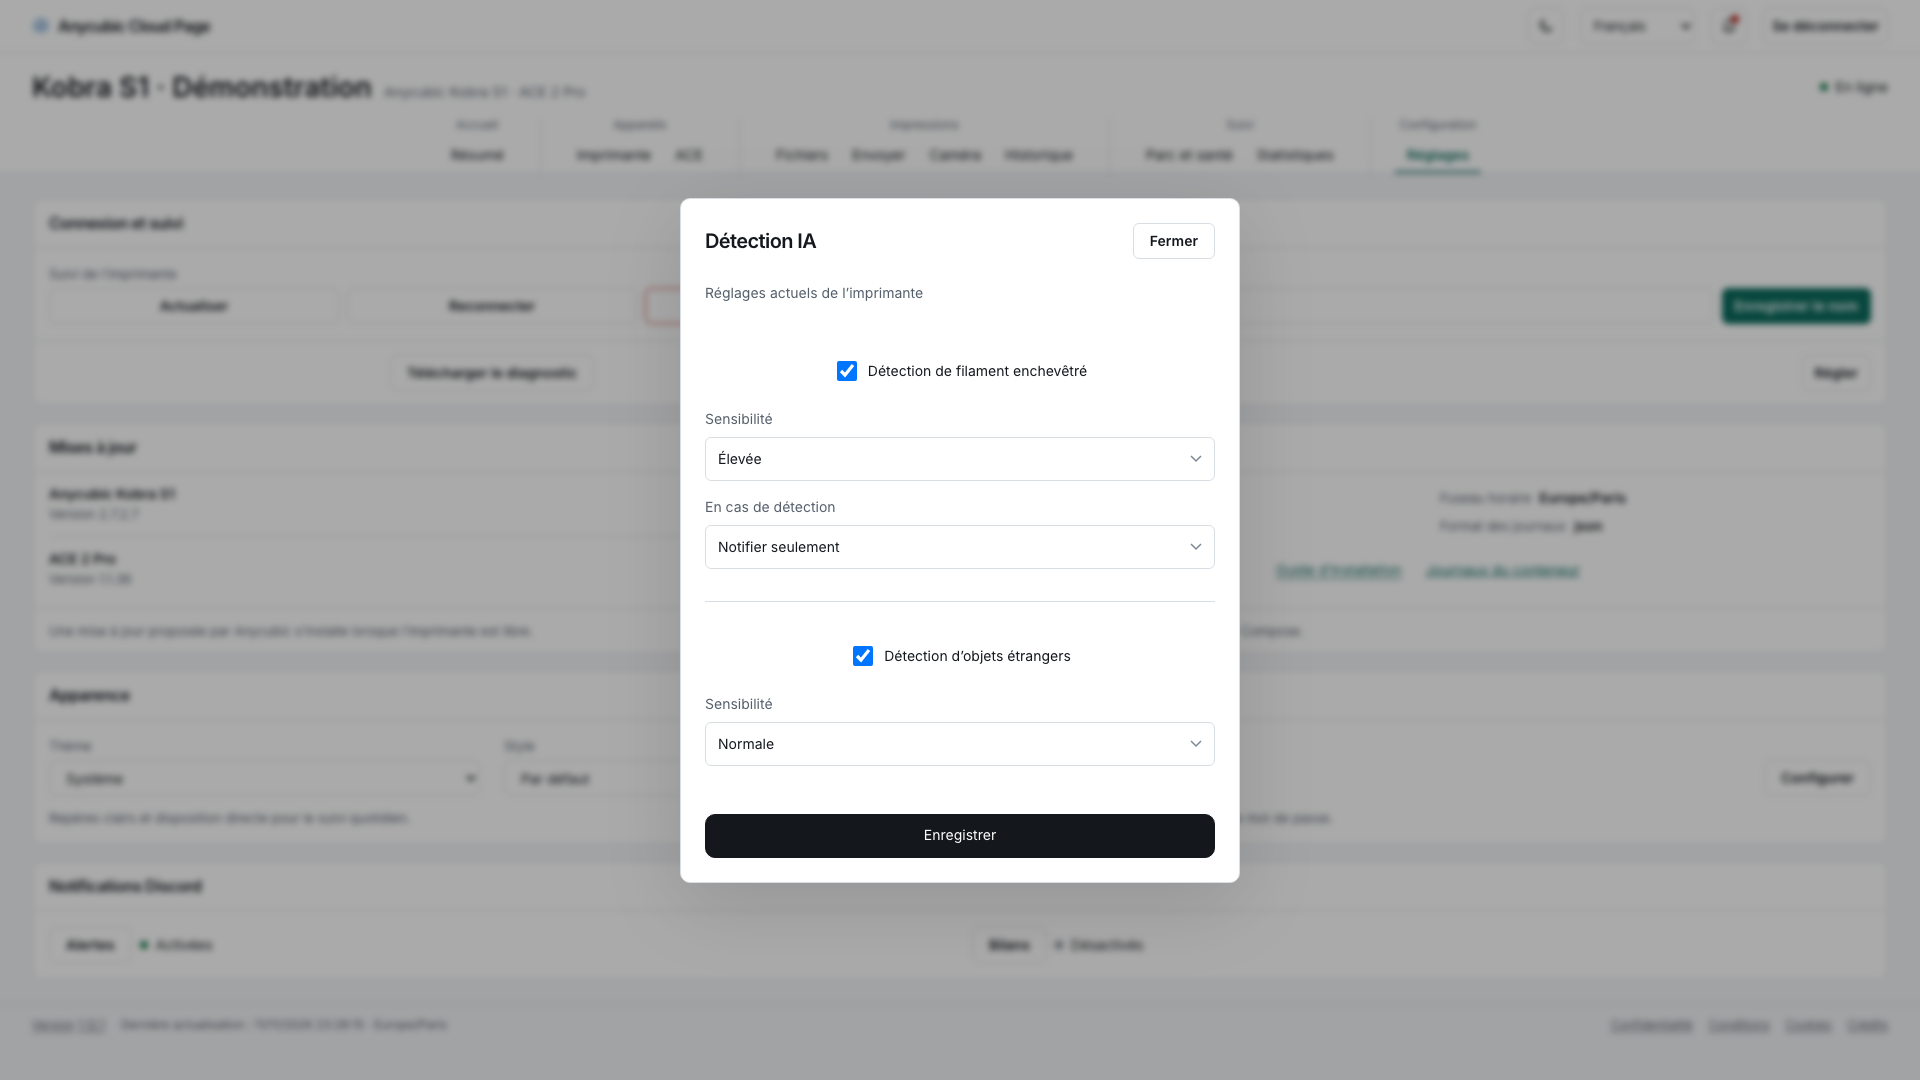
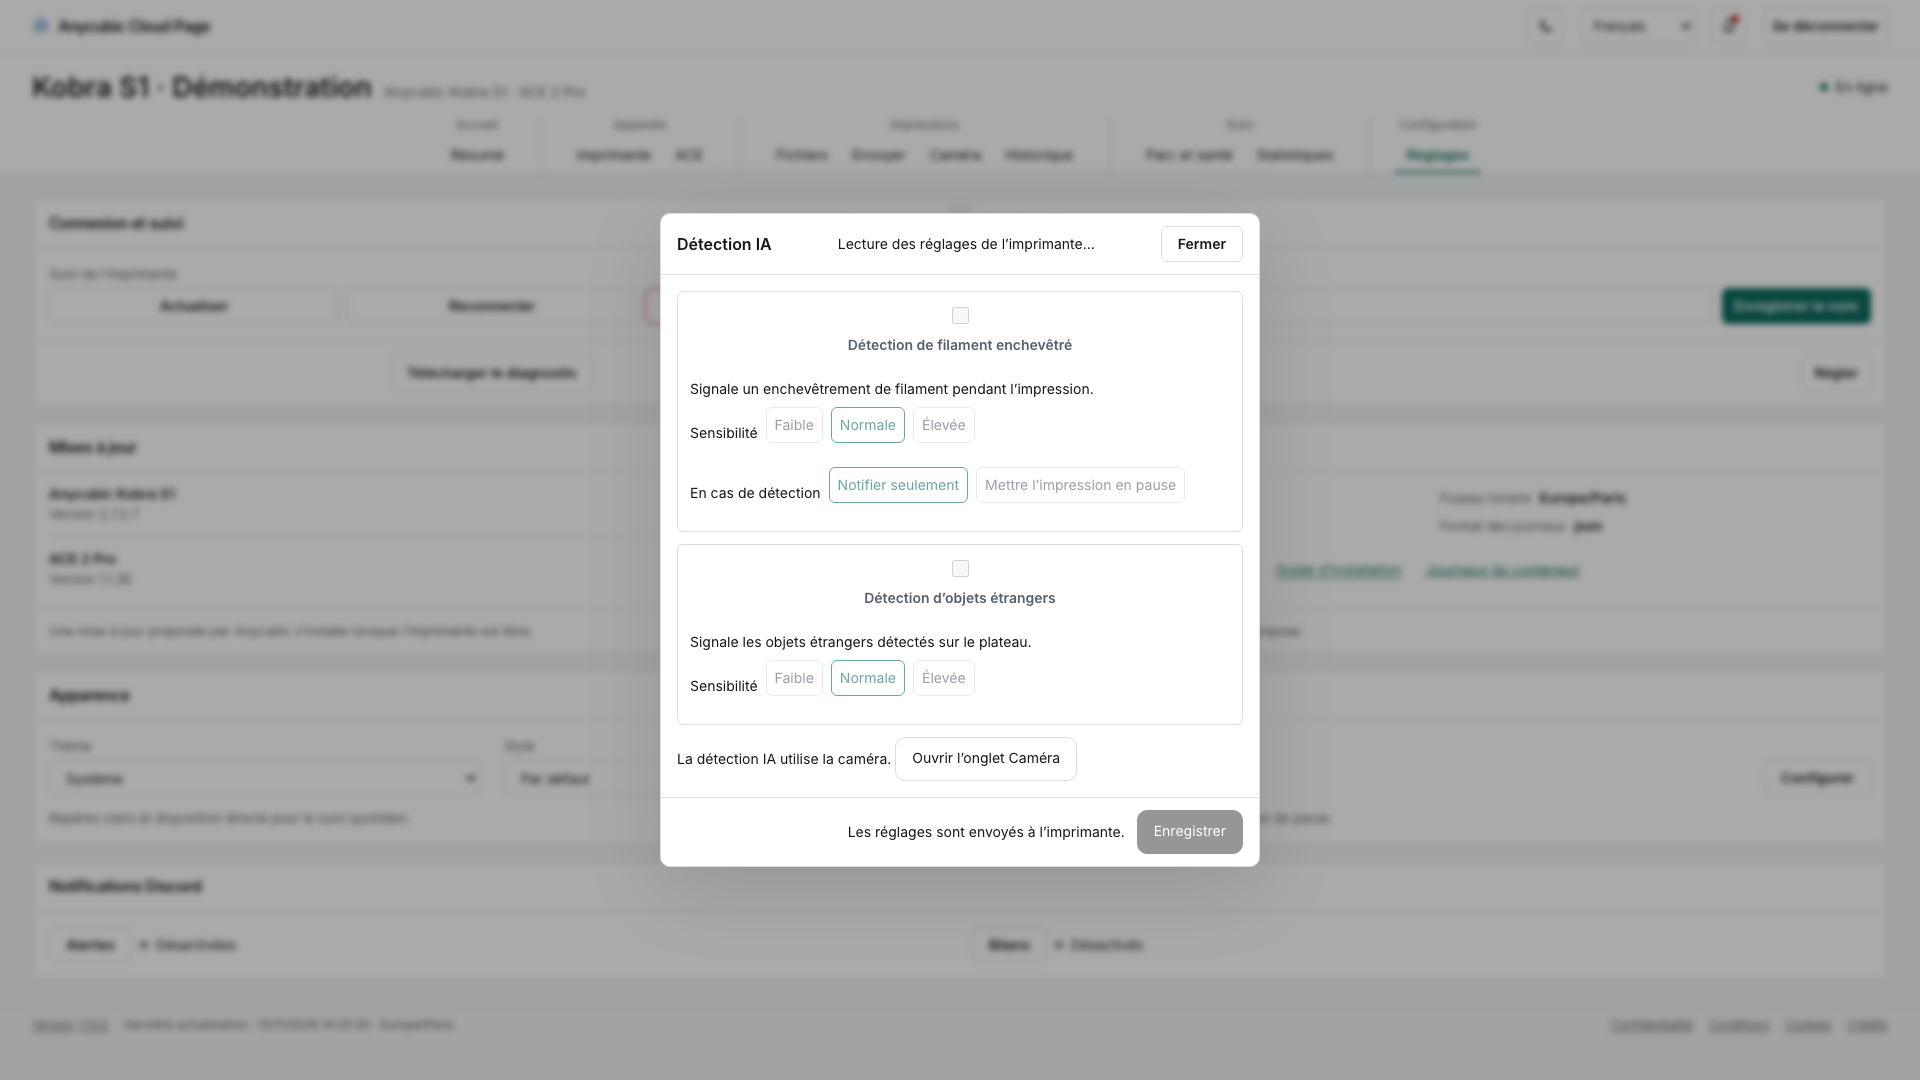
Version 1.13.0 : fenêtres de l’atelier et fiches filament

Changed region(s): [[0.3438, 0.1833, 0.6562, 0.825], [0.0938, 0.8556, 0.125, 0.8861]]

diff --git a/screenshots/README.md b/screenshots/README.md
@@ -32,10 +32,18 @@ Captures de la démonstration authentifiée, produites avec `scripts/capture_dem
 | [25-commandes-au-repos.png](25-commandes-au-repos.png) | Commandes courantes, schéma de la S1 et mesures de chaque organe, en mode sombre. |
 | [26-sechage-ace.png](26-sechage-ace.png) | Interrupteur, état et réglages du séchage ACE, en mode sombre. |
 | [27-details-tache.png](27-details-tache.png) | Fenêtre commune à la tâche courante et à l’historique. |
+| [28-configurer-bobine.png](28-configurer-bobine.png) | Emplacements, aperçu et réglages d’une bobine ACE. |
+| [29-journal-commandes.png](29-journal-commandes.png) | Filtres du journal des commandes et export. |
+| [30-periode-historique.png](30-periode-historique.png) | Raccourcis de période et dates de l’historique. |
+| [31-renommer-cloud.png](31-renommer-cloud.png) | Renommage Cloud avec extension conservée. |
+| [32-telecharger-cloud.png](32-telecharger-cloud.png) | Fenêtre de téléchargement Cloud. |
+| [33-confirmation.png](33-confirmation.png) | Confirmation de suppression d’un fichier Cloud. |
 
 Pour les refaire : installer les dépendances de développement et Chromium Playwright, puis lancer `node scripts/capture_demo.cjs` depuis la racine. Le script démarre uniquement `app/demo.py --auth`, crée un fichier temporaire de mot de passe fictif et ferme ce serveur après capture. `UI_PYTHON` permet de choisir l’interpréteur Python du projet. Aucun moteur Docker n’est nécessaire.
 
 La capture de session présente deux noms d’imprimantes fictifs pour illustrer le sélecteur. Le navigateur des captures utilise le français. Les captures de bureau mesurent 1 920 × 1 080 px. La vue mobile mesure 390 × 844 px. Ne jamais utiliser un compte réel pour produire les images publiques.
+
+`node scripts/capture_demo.cjs --dialogs` actualise les captures des fenêtres de la version 1.13.0.
 
 ## Comparaison historique avec la version 1.8.0
 

diff --git a/docs/ROADMAP.md b/docs/ROADMAP.md
@@ -9,9 +9,9 @@ Mise à jour le 13 novembre 2026. Voir les [versions publiées](https://github.c
 - Le catalogue conserve Par défaut, Aurore et Laboratoire. Voir le [guide des styles](THEMES.md).
 - Les essais sur la Kobra S1 Combo suivent le cadre [#214](https://github.com/mcflykid/anycubic-cloud-page/issues/214), avec vérification de l’état et remise en état après chaque essai. Toute impression complète, mise à jour de firmware ou réinitialisation est exclue.
 
-## Version 1.12.3
+## Version 1.13.0
 
-Les [changements](../CHANGELOG.md) corrigent les alignements des onglets Envoyer et Fichiers. Le [suivi des versions](https://github.com/mcflykid/anycubic-cloud-page/issues/347) détaille les lots suivants. Les [essais de clôture](CLOSURE.md) documentent les validations et les preuves à réunir si une investigation reprend.
+Les [changements](../CHANGELOG.md) détaillent les nouvelles fenêtres de l’atelier. Le [guide des fiches filament](FICHES-FILAMENT.md) explique comment consulter le catalogue et ajouter ses propres fiches. Le [suivi des versions](https://github.com/mcflykid/anycubic-cloud-page/issues/347) détaille les lots suivants. Les [essais de clôture](CLOSURE.md) documentent les validations et les preuves à réunir si une investigation reprend.
 
 | Sujet | Référence |
 | --- | --- |

diff --git a/CHANGELOG.md b/CHANGELOG.md
@@ -1,5 +1,14 @@
 # Changements
 
+## 1.13.0 — 2026-11-13
+
+- Harmonise les confirmations ordinaires, destructives et protégées par le mot de passe web (#341).
+- Aligne la configuration des bobines et du séchage sur les maquettes de l’ACE. Le relais de bobines est accessible depuis la carte de l’ACE (#335, #336).
+- Ouvre les fiches filament depuis les emplacements ACE. Le catalogue du projet associe les SKU RFID vérifiés aux fiches Anycubic correspondantes. Pour un SKU inconnu, il propose de créer une fiche personnelle. Le guide décrit leur création et leur import.
+- Ajoute des filtres au journal des commandes et aligne la fenêtre de détection IA (#337, #338).
+- Présente le renommage Cloud avec extension conservée et la durée de validité des liens de téléchargement (#340).
+- Ajoute des raccourcis de période pour l’historique et des filtres pour le journal des notifications (#342).
+
 ## 1.12.3 — 2026-11-13
 
 - Centre les cartes **Fichier** et **Envoi** dans l’onglet **Envoyer**, en conservant leur empilement sur mobile (#328).
